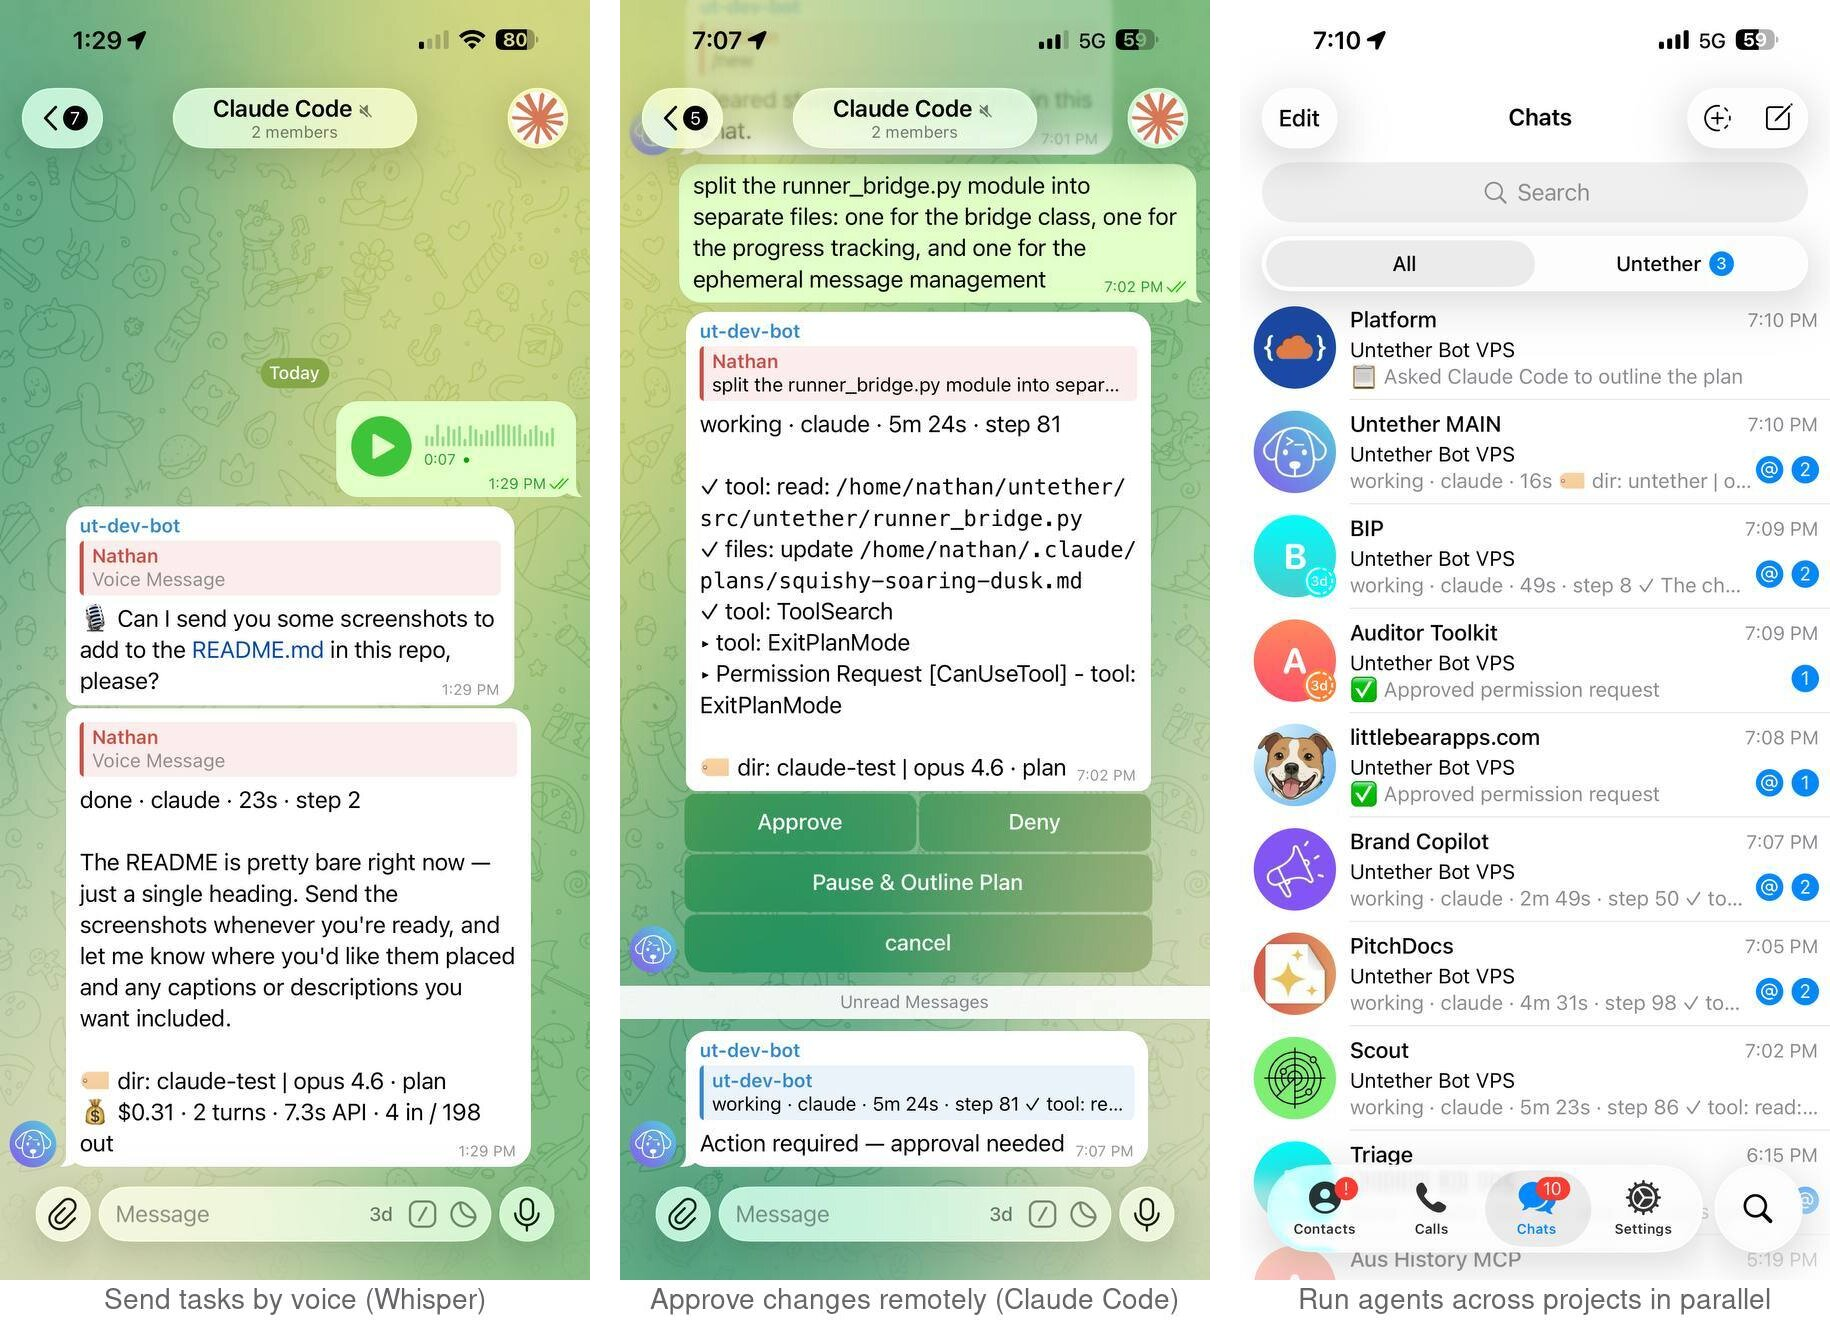
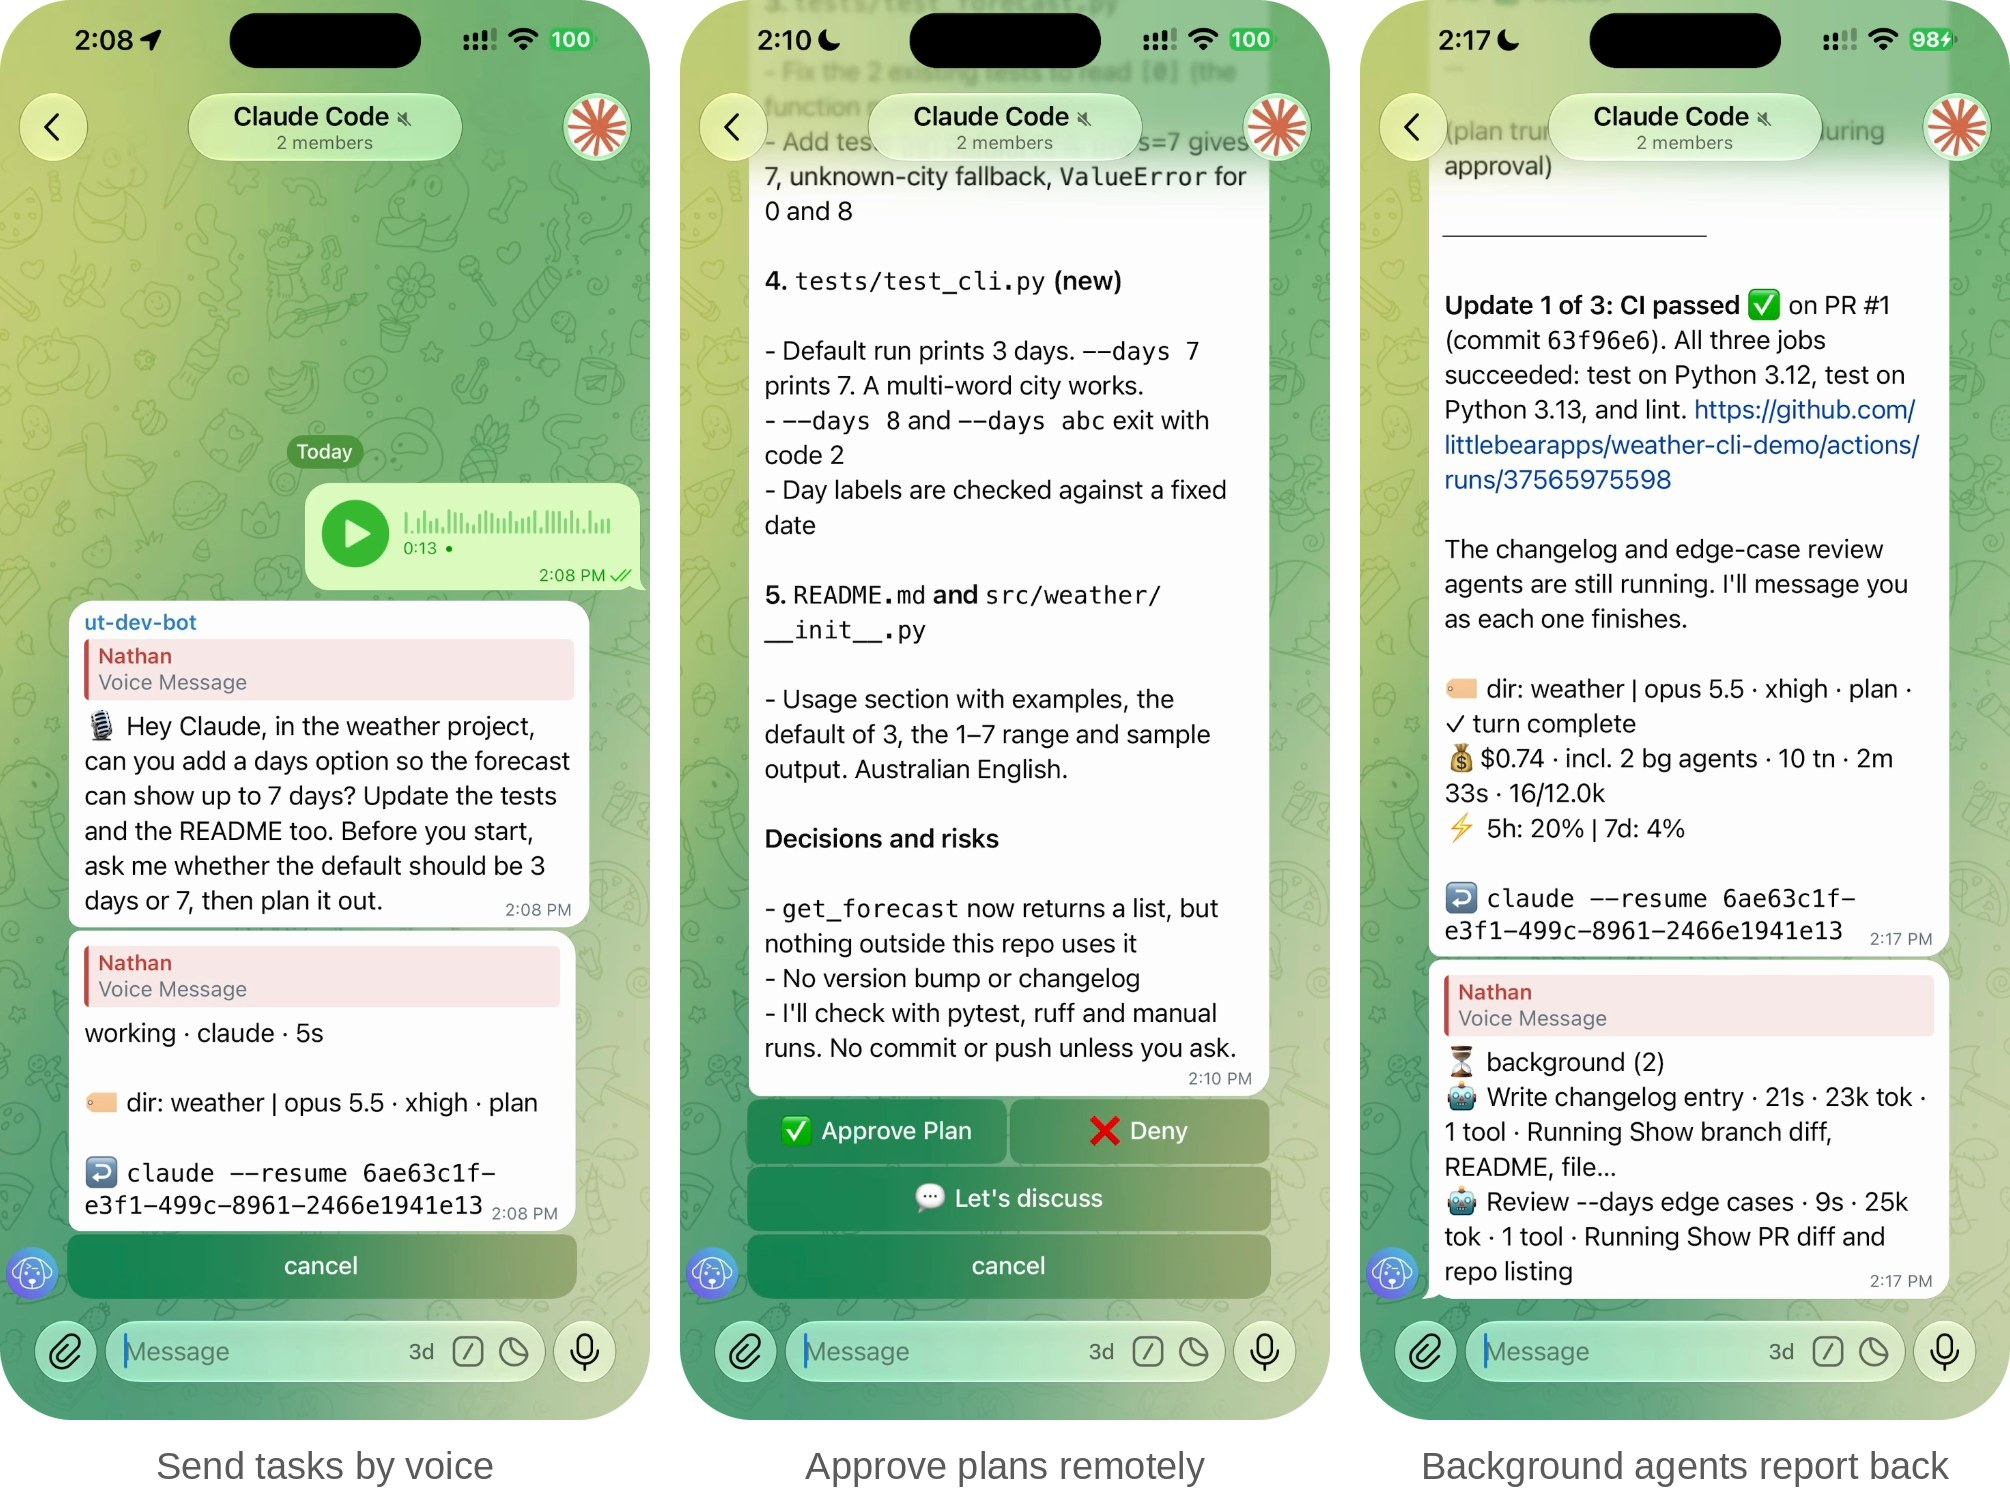
docs: refresh README hero collage from the 7 October demo recording
Replaces the April collage (opus 4.6, old Approve/Deny/Pause labels and a
chat list) with three frames from today's dev-bot take: voice task with live
progress, plan outline with Approve Plan / Deny / Let's discuss, and
background agents plus CI reporting back. 2010x1510, up from 1830x1330.

Claude-Session: https://claude.ai/code/session_01TGTUbTM4MkJQFPaFr2R1Vq

diff --git a/README.md b/README.md
@@ -28,7 +28,7 @@
 Your AI coding agents need a terminal, but you don't need to sit at one. Untether runs on your machine (or server) and connects [Claude Code](https://docs.anthropic.com/en/docs/claude-code), [Codex](https://github.com/openai/codex), [OpenCode](https://opencode.ai) and [Pi](https://github.com/earendil-works/pi/tree/main/packages/coding-agent) to a Telegram bot. Send a task from your phone, watch the agent work in real time, tap a button when it needs permission, and read the result when it's done — no desk, no SSH, no screen sharing. The agent keeps running if you close Telegram or lose signal.
 
 <p align="center">
-  <img src="https://raw.githubusercontent.com/littlebearapps/untether/master/docs/assets/screenshots/hero-collage.jpg" alt="Send tasks by voice, approve changes remotely, configure from Telegram" width="100%" />
+  <img src="https://raw.githubusercontent.com/littlebearapps/untether/master/docs/assets/screenshots/hero-collage.jpg" alt="Send tasks by voice, approve plans remotely, and get reports back from background agents and CI" width="100%" />
 </p>
 <p align="center"><sub>* Feature availability varies by engine — see <a href="#engine-compatibility">engine compatibility</a></sub></p>
 

diff --git a/docs/reference/feature-catalog.md b/docs/reference/feature-catalog.md
@@ -197,7 +197,7 @@ Detailed protocol specs and event cheatsheets for each integration:
 
 ## Documentation screenshots
 
-46 screenshots in `docs/assets/screenshots/` with a tracking checklist in `CAPTURES.md`. README uses a composite hero collage (`hero-collage.jpg`) built with ImageMagick for mobile responsiveness. Doc files use HTML `<img>` tags with `width="360"` and `loading="lazy"` (works in both GitHub and MkDocs). 14 screenshots are still missing and commented out with `<!-- TODO: capture screenshot -->` markers.
+46 screenshots in `docs/assets/screenshots/` with a tracking checklist in `CAPTURES.md`. README uses a composite hero collage (`hero-collage.jpg`, refreshed 7 October 2026 from frames of a dev-bot demo recording: voice task, plan approval, background agents and CI) for mobile responsiveness. Doc files use HTML `<img>` tags with `width="360"` and `loading="lazy"` (works in both GitHub and MkDocs). 14 screenshots are still missing and commented out with `<!-- TODO: capture screenshot -->` markers.
 
 ## Deprecated engines (Gemini CLI, AMP)
 
